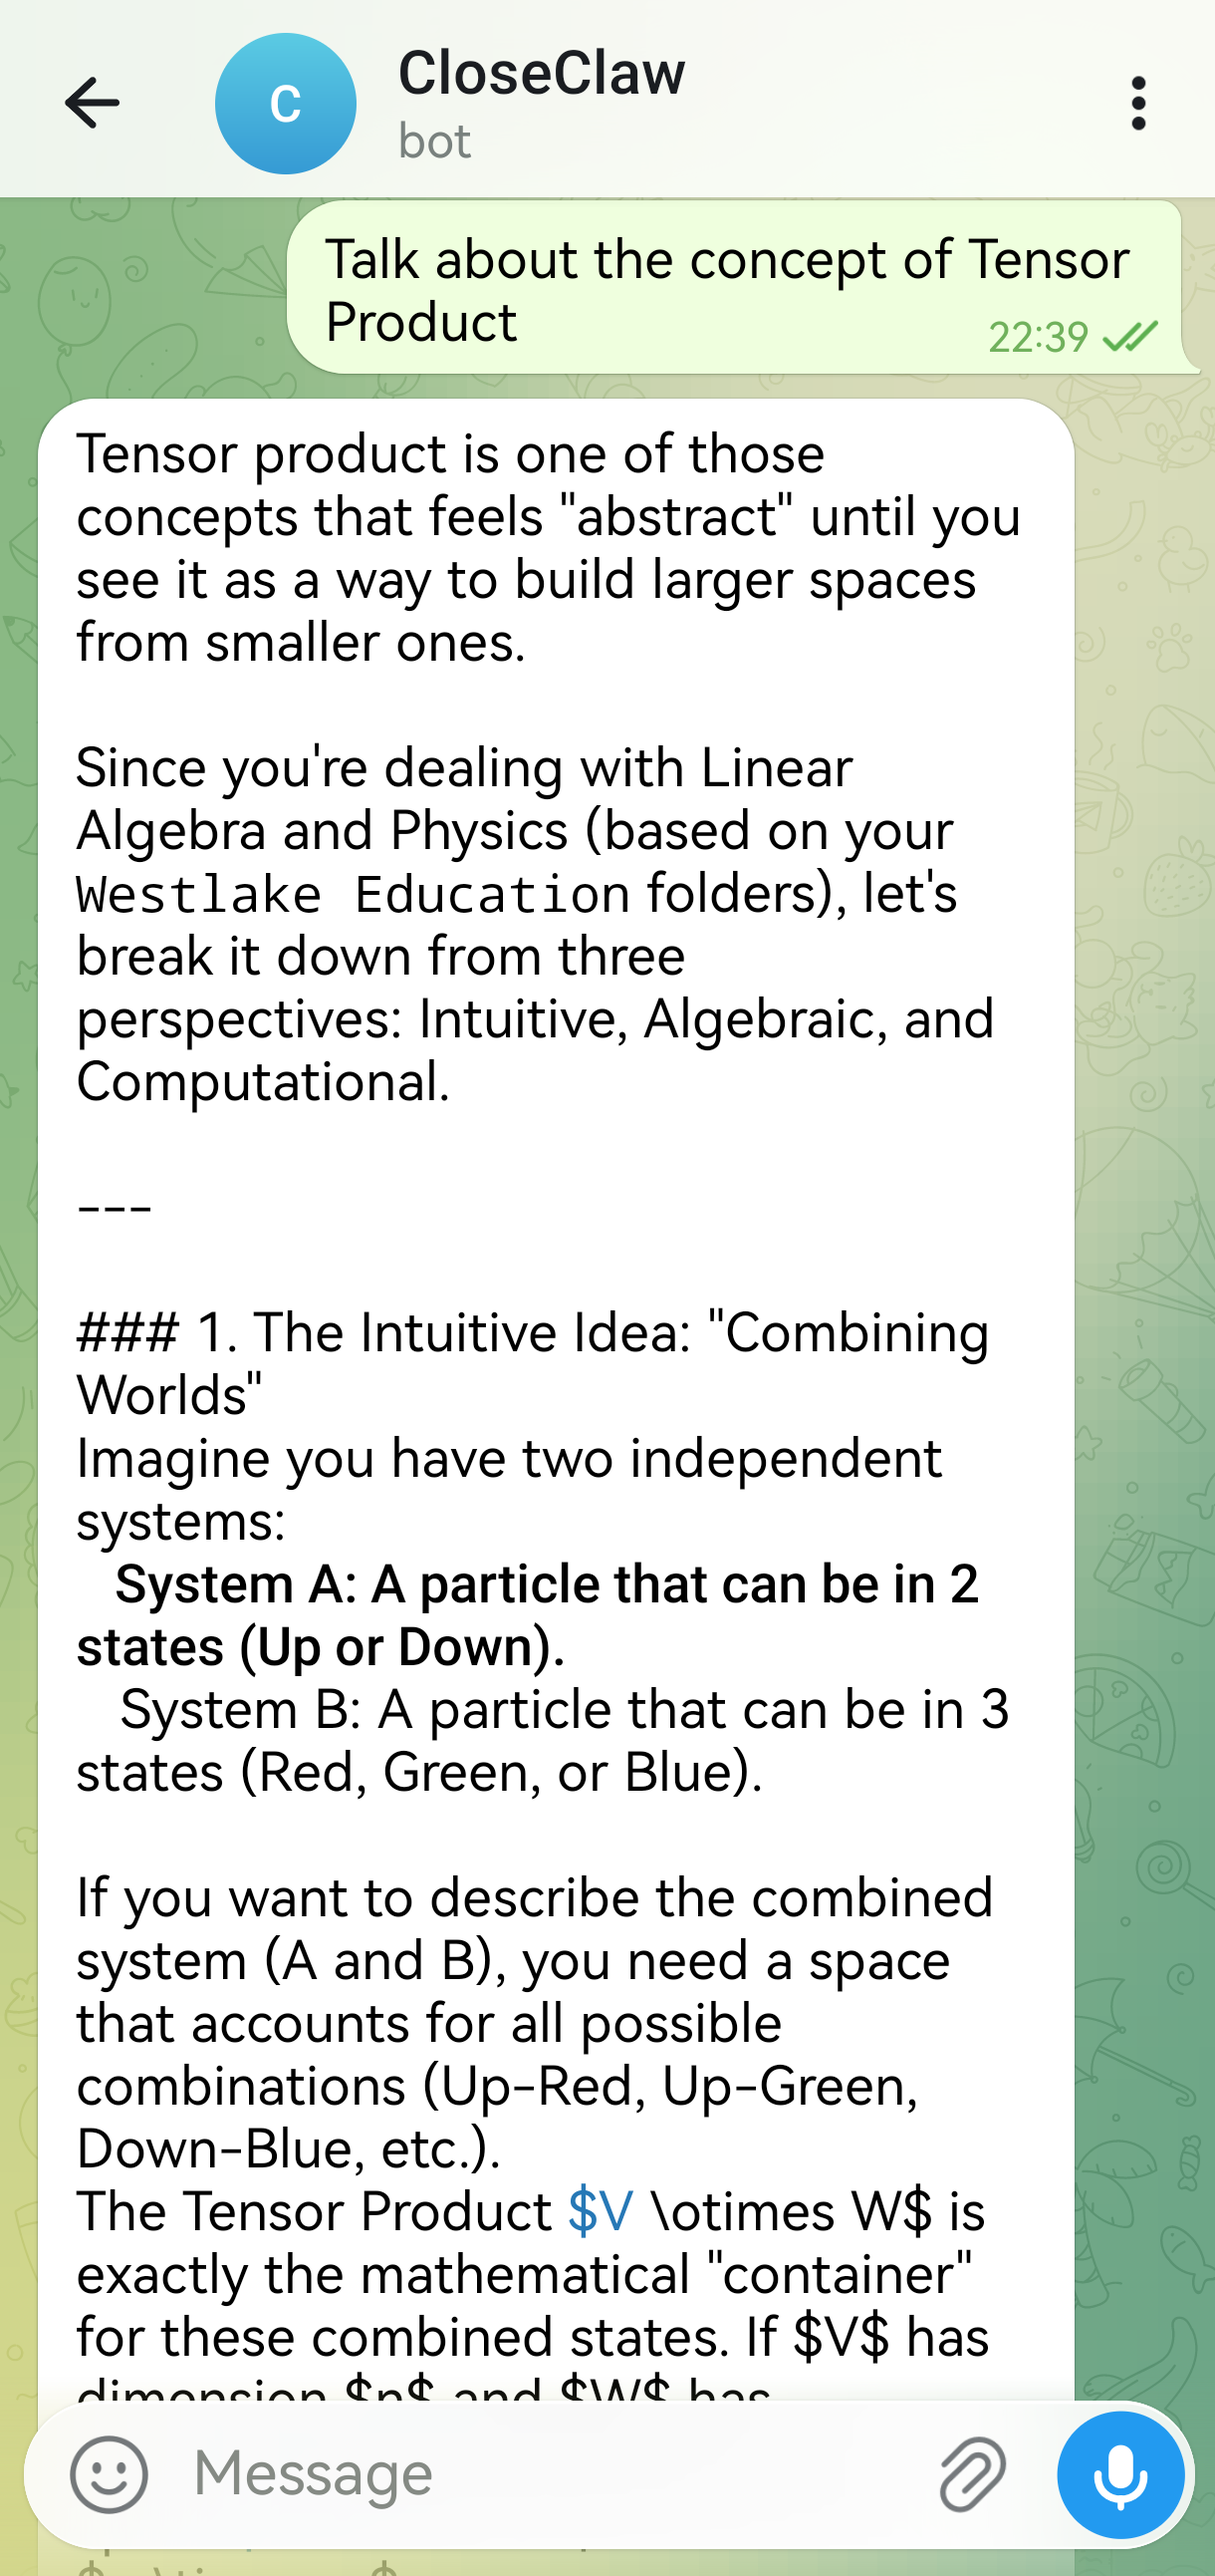
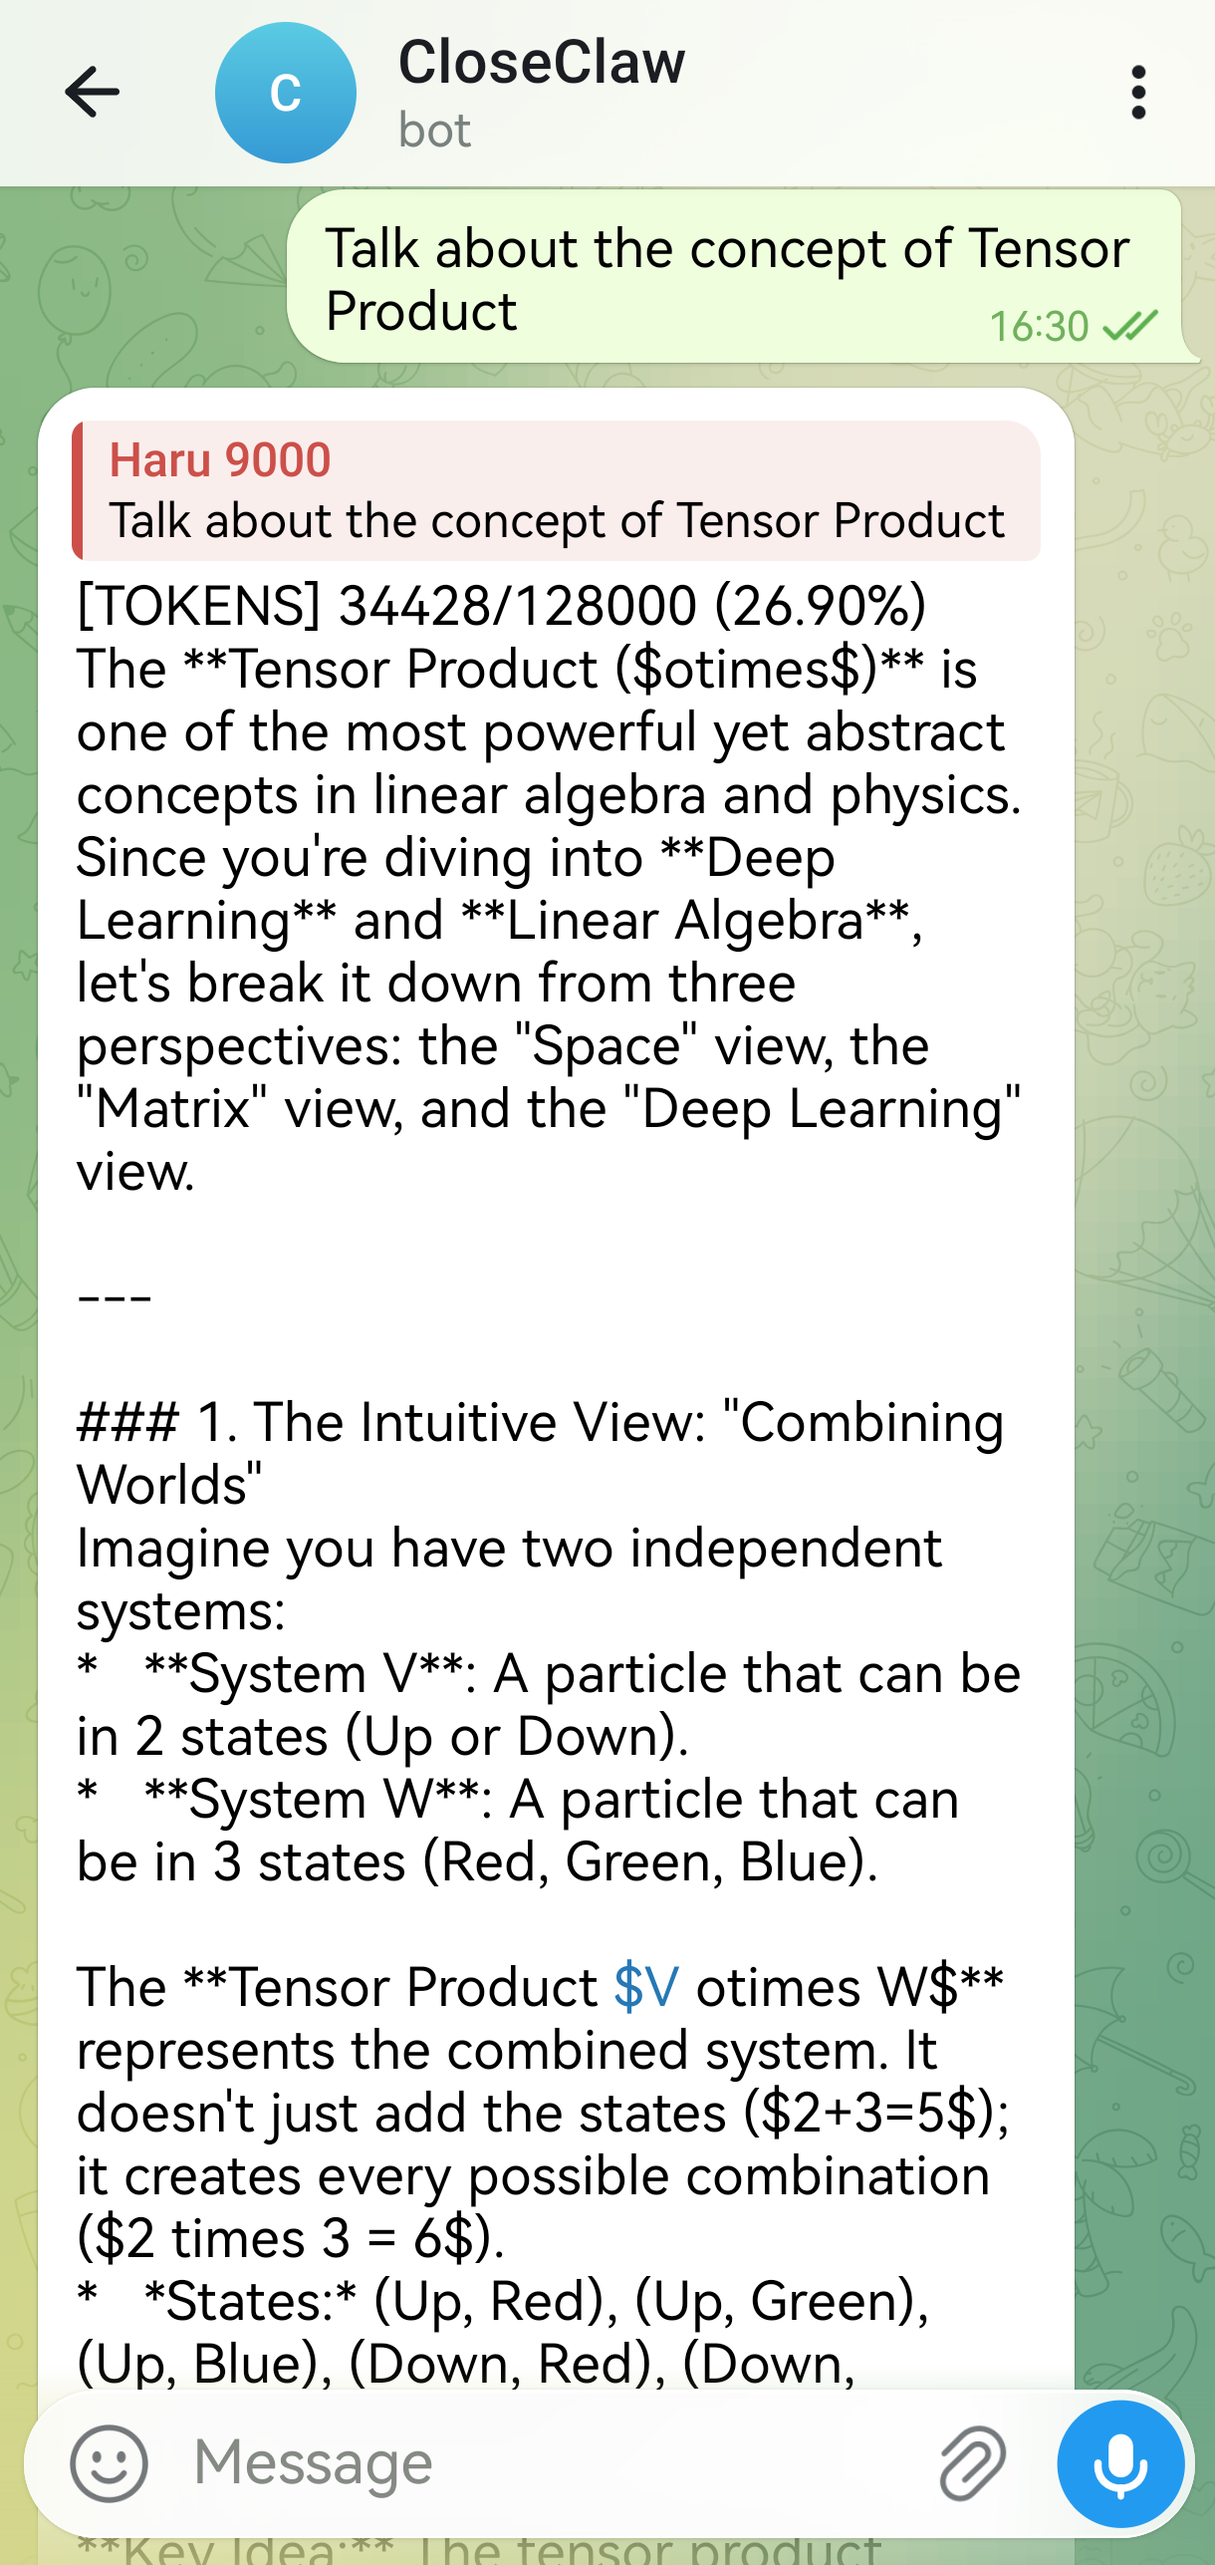
feat: optimize the interaction in channels

diff --git a/closeclaw/runner.py b/closeclaw/runner.py
@@ -397,6 +397,7 @@ async def run_channel(agent: AgentCore,
         # This is needed because AgentCore is channel-agnostic and doesn't
         # carry platform-specific metadata (like chat_id) through responses.
         last_message_metadata: dict[str, Any] = {}
+        last_user_message_id: str = ""
 
         wake_bridge_task: Optional[asyncio.Task] = None
 
@@ -413,7 +414,7 @@ async def run_channel(agent: AgentCore,
         
         async def input_fn():
             """Wrap channel.receive_message to capture metadata."""
-            nonlocal last_message_metadata
+            nonlocal last_message_metadata, last_user_message_id
             # For channels that do not support inject_message, wake_queue must be
             # awaited concurrently with channel input; otherwise cron events can
             # be starved while receive_message is blocking.
@@ -441,6 +442,16 @@ async def run_channel(agent: AgentCore,
 
                 if incoming_metadata:
                     last_message_metadata.update(incoming_metadata)
+
+            if msg:
+                sender_id = str(getattr(msg, "sender_id", "") or "").strip().lower()
+                role = str((getattr(msg, "metadata", {}) or {}).get("role", "")).strip().lower()
+                source = str((getattr(msg, "metadata", {}) or {}).get("source", "")).strip().lower()
+                is_system_message = sender_id == "system" or role == "system" or source in {"cron", "heartbeat"}
+                if not is_system_message:
+                    msg_id = str(getattr(msg, "id", "") or "").strip()
+                    if msg_id:
+                        last_user_message_id = msg_id
             return msg
         
         async def output_fn(response: dict[str, Any]) -> None:
@@ -459,6 +470,24 @@ async def run_channel(agent: AgentCore,
             enriched_response["_token_usage_prefix"] = (
                 f"[TOKENS] {current_tokens}/{max_window_tokens} ({ratio:.2%})"
             )
+
+            resp_type = str(enriched_response.get("type", "response") or "response")
+            if (
+                resp_type in {"response", "assistant_message"}
+                and "_reply_to_message_id" not in enriched_response
+                and last_user_message_id
+            ):
+                enriched_response["_reply_to_message_id"] = last_user_message_id
+
+            # Defensive cleanup for legacy manual quote format introduced previously.
+            # Keep native platform reply behavior while avoiding duplicated quoted text.
+            if resp_type in {"response", "assistant_message"}:
+                raw_response_text = str(enriched_response.get("response", "") or "")
+                legacy_prefix = 'Regarding your last message: "'
+                if raw_response_text.startswith(legacy_prefix):
+                    separator_index = raw_response_text.find('"\n\n')
+                    if separator_index != -1:
+                        enriched_response["response"] = raw_response_text[separator_index + 3 :].lstrip()
             try:
                 await channel.send_response(enriched_response)
             except Exception as exc:

diff --git a/closeclaw/channels/feishu.py b/closeclaw/channels/feishu.py
@@ -26,6 +26,7 @@ logger = logging.getLogger(__name__)
 FEISHU_BASE_URL = "https://open.feishu.cn/open-apis"
 FEISHU_TOKEN_URL = f"{FEISHU_BASE_URL}/auth/v3/tenant_access_token/internal"
 FEISHU_SEND_MSG_URL = f"{FEISHU_BASE_URL}/im/v1/messages"
+FEISHU_REPLY_MSG_URL_TEMPLATE = f"{FEISHU_BASE_URL}/im/v1/messages/{{message_id}}/reply"
 
 
 class FeishuChannel(BaseChannel):
@@ -150,6 +151,7 @@ class FeishuChannel(BaseChannel):
         if resp_type in {"response", "assistant_message"}:
             text = response.get("response", "OK")
             tool_results = response.get("tool_results", [])
+            reply_to_message_id = str(response.get("_reply_to_message_id", "") or "").strip()
             lines: list[str] = [text]
 
             if tool_results:
@@ -164,7 +166,12 @@ class FeishuChannel(BaseChannel):
             text = "\n".join(lines)
             if token_prefix:
                 text = f"{token_prefix}\n{text}"
-            await self._send_text_message(chat_id, text)
+            if reply_to_message_id:
+                sent = await self._reply_text_message(reply_to_message_id, text)
+                if not sent:
+                    await self._send_text_message(chat_id, text)
+            else:
+                await self._send_text_message(chat_id, text)
         
         elif resp_type == "auth_request":
             await self._send_auth_card(chat_id, response)
@@ -271,6 +278,26 @@ class FeishuChannel(BaseChannel):
             logger.debug(f"Feishu message sent to {chat_id}")
         except Exception as e:
             logger.error(f"Failed to send Feishu message: {e}")
+
+    async def _reply_text_message(self, message_id: str, text: str) -> bool:
+        """Reply to an existing Feishu message by message_id."""
+        token = await self._ensure_token()
+        reply_url = FEISHU_REPLY_MSG_URL_TEMPLATE.format(message_id=message_id)
+        try:
+            resp = await self._client.post(
+                reply_url,
+                headers={"Authorization": f"Bearer {token}"},
+                json={
+                    "msg_type": "text",
+                    "content": json.dumps({"text": text}),
+                },
+            )
+            resp.raise_for_status()
+            logger.debug("Feishu reply sent to message_id=%s", message_id)
+            return True
+        except Exception as e:
+            logger.warning("Failed to send Feishu reply (message_id=%s): %s", message_id, e)
+            return False
     
     async def _send_auth_card(self, chat_id: str, response: dict[str, Any]) -> None:
         """Send Interactive Card for HITL confirmation."""

diff --git a/closeclaw/channels/telegram.py b/closeclaw/channels/telegram.py
@@ -160,6 +160,13 @@ class TelegramChannel(BaseChannel):
         resp_type = response.get("type", "response")
         chat_id = response.get("_chat_id")
         token_prefix = str(response.get("_token_usage_prefix", "") or "").strip()
+        raw_reply_to_message_id = response.get("_reply_to_message_id")
+        reply_to_message_id: Optional[int] = None
+        if raw_reply_to_message_id is not None:
+            try:
+                reply_to_message_id = int(raw_reply_to_message_id)
+            except (TypeError, ValueError):
+                reply_to_message_id = None
         
         if not chat_id or not self._app:
             logger.warning("Cannot send response: no chat_id or app not initialized")
@@ -223,6 +230,8 @@ class TelegramChannel(BaseChannel):
                 chunk_kwargs = dict(kwargs)
                 if idx > 0 and "reply_markup" in chunk_kwargs:
                     chunk_kwargs.pop("reply_markup")
+                if idx > 0 and "reply_to_message_id" in chunk_kwargs:
+                    chunk_kwargs.pop("reply_to_message_id")
 
                 try:
                     await bot.send_message(chat_id=chat_id, text=chunk, parse_mode="Markdown", **chunk_kwargs)
@@ -298,7 +307,10 @@ class TelegramChannel(BaseChannel):
             full_text = "\n".join(parts) if parts else "OK"
             if token_prefix:
                 full_text = f"{token_prefix}\n{full_text}"
-            await safe_send(full_text)
+            send_kwargs: dict[str, Any] = {}
+            if reply_to_message_id is not None:
+                send_kwargs["reply_to_message_id"] = reply_to_message_id
+            await safe_send(full_text, **send_kwargs)
             
         elif resp_type == "auth_request":
             await self._send_auth_request_message(chat_id, response)

diff --git a/closeclaw/channels/discord.py b/closeclaw/channels/discord.py
@@ -129,6 +129,13 @@ class DiscordChannel(BaseChannel):
 
         resp_type = response.get("type", "response")
         token_prefix = str(response.get("_token_usage_prefix", "") or "").strip()
+        raw_reply_to_message_id = response.get("_reply_to_message_id")
+        reply_to_message_id: Optional[int] = None
+        if raw_reply_to_message_id is not None:
+            try:
+                reply_to_message_id = int(raw_reply_to_message_id)
+            except (TypeError, ValueError):
+                reply_to_message_id = None
         text = ""
 
         if resp_type in {"response", "assistant_message"}:
@@ -171,6 +178,14 @@ class DiscordChannel(BaseChannel):
             text = f"{token_prefix}\n{text}"
         if len(text) > 1900:
             text = text[:1900] + "..."
+
+        if resp_type in {"response", "assistant_message"} and reply_to_message_id is not None:
+            try:
+                partial = channel.get_partial_message(reply_to_message_id)
+                await channel.send(text, reference=partial, mention_author=False)
+                return
+            except Exception as exc:
+                logger.debug("Discord reply reference failed, fallback to normal send: %s", exc)
 
         await channel.send(text)
 

diff --git a/closeclaw/channels/whatsapp.py b/closeclaw/channels/whatsapp.py
@@ -123,12 +123,18 @@ class WhatsAppChannel(BaseChannel):
 
         if resp_type in {"response", "assistant_message"} and token_prefix:
             text = f"{token_prefix}\n{text}"
+        reply_to_message_id = str(response.get("_reply_to_message_id", "") or "").strip()
+        payload: dict[str, Any] = {
+            "type": "send",
+            "to": str(chat_id),
+            "text": text[:3500],
+        }
+        if reply_to_message_id and resp_type in {"response", "assistant_message"}:
+            # Bridge-compatible reply hints; unknown fields are expected to be ignored safely.
+            payload["reply_to_message_id"] = reply_to_message_id
+            payload["quoted_message_id"] = reply_to_message_id
         await self._bridge_send(
-            {
-                "type": "send",
-                "to": str(chat_id),
-                "text": text[:3500],
-            }
+            payload
         )
 
     async def send_auth_request(

diff --git a/closeclaw/channels/cli_channel.py b/closeclaw/channels/cli_channel.py
@@ -3,8 +3,6 @@
 Shares the same AgentCore instance with other channels.
 Provides stdin/stdout based message exchange and HITL confirmation.
 
-From Planning.md:
-  "鏈湴 CLI 瀹炵幇锛氬祵鍏ュ紡 CLI 椹卞姩锛屼笌 Server 鍏变韩鍚屼竴涓?AgentCore 瀹炰緥锛?   閫氳繃 asyncio.gather 鍚屾椂鍚姩 Server 鍜?CLI 寰幆銆?
 """
 
 import asyncio
@@ -198,7 +196,7 @@ class CLIChannel(BaseChannel):
             # Show main response
             if token_prefix:
                 print(f"{Colors.DIM}{token_prefix}{Colors.RESET}")
-            print(f"{Colors.GREEN}Agent > {Colors.RESET}{text}\n")
+            print(f"{Colors.GREEN}CloseClaw > {Colors.RESET}{text}\n")
             self._input_gate.set()
         
         elif resp_type == "auth_request":

diff --git a/closeclaw/channels/qq.py b/closeclaw/channels/qq.py
@@ -154,7 +154,12 @@ class QQChannel(BaseChannel):
         if resp_type in {"response", "assistant_message"} and token_prefix:
             text = f"{token_prefix}\n{text}"
         self._msg_seq += 1
-        msg_id = response.get("message_id") or str(self._msg_seq)
+        reply_to_message_id = str(response.get("_reply_to_message_id", "") or "").strip()
+        msg_id = (
+            reply_to_message_id
+            if reply_to_message_id and resp_type in {"response", "assistant_message"}
+            else (response.get("message_id") or str(self._msg_seq))
+        )
         chat_type = self._chat_type_cache.get(chat_id, "c2c")
 
         try:

diff --git a/docs/WhatsApp_Bridge_Protocol.md b/docs/WhatsApp_Bridge_Protocol.md
@@ -1,0 +1,84 @@
+# WhatsApp Bridge Protocol
+
+This document defines the WebSocket payload contract between CloseClaw and a WhatsApp bridge.
+
+## Transport
+
+- Protocol: WebSocket
+- Direction:
+  - Bridge -> CloseClaw: inbound events (`message`, `auth_response`, ...)
+  - CloseClaw -> Bridge: outbound send requests (`send`)
+
+## Outbound Payload (CloseClaw -> Bridge)
+
+CloseClaw sends:
+
+```json
+{
+  "type": "send",
+  "to": "chat_or_user_id",
+  "text": "message text",
+  "reply_to_message_id": "optional_source_message_id",
+  "quoted_message_id": "optional_source_message_id"
+}
+```
+
+Field rules:
+
+- `type`: always `send`
+- `to`: destination chat/user id
+- `text`: plain text content
+- `reply_to_message_id`: optional reply target id
+- `quoted_message_id`: optional reply target id (alias for bridge compatibility)
+
+Reply semantics:
+
+- When both `reply_to_message_id` and `quoted_message_id` are present, they refer to the same source message id.
+- Bridge should treat either field as a reply hint and perform native quoted/reply send if supported by its SDK.
+- If bridge does not support reply/quote in current adapter, it should ignore these fields and send a normal message.
+
+## Inbound Payload (Bridge -> CloseClaw)
+
+### 1) User Message Event
+
+```json
+{
+  "type": "message",
+  "id": "wamid_or_bridge_message_id",
+  "chat_id": "chat_or_group_id",
+  "sender": "user_id_or_jid",
+  "content": "user text",
+  "isGroup": false
+}
+```
+
+Required for best routing:
+
+- `id`: source message id (used by CloseClaw for future reply chaining)
+- `chat_id`: target chat id for sending responses back
+- `sender`: sender id
+- `content`: message text
+
+### 2) Auth Response Event
+
+```json
+{
+  "type": "auth_response",
+  "auth_request_id": "req_xxx",
+  "approved": true,
+  "user_id": "admin_user_id"
+}
+```
+
+## Compatibility Notes
+
+- CloseClaw keeps backward compatibility: unknown inbound fields are ignored.
+- Bridge should also ignore unknown outbound fields to allow protocol evolution.
+- Reply fields are optional, but strongly recommended to implement for better conversation UX.
+
+## Minimal Bridge Implementation Checklist
+
+1. Parse outbound `send` payload.
+2. If `reply_to_message_id` or `quoted_message_id` exists, call WhatsApp SDK quoted/reply API path.
+3. Emit inbound `message` event with stable `id`.
+4. Preserve `chat_id` and `sender` mapping for routing and auth checks.

diff --git a/README_zh.md b/README_zh.md
@@ -105,6 +105,9 @@ Tool Call
 | `Whatsapp`| 🟢 通过 bridge 触达受限网络环境下的移动端 | 打印 bridge URL |
 | `QQ` | 🐧 面向中文生态的即时通信入口 | 显示 gateway 已启动 |
 
+WhatsApp bridge 协议说明：
+- [docs/WhatsApp_Bridge_Protocol.md](docs/WhatsApp_Bridge_Protocol.md)
+
 ---
 
 ## 🤖 LLM Provider 支持

diff --git a/README.md b/README.md
@@ -103,6 +103,9 @@ Tool Call
 | `WhatsApp` | 🟢 Reachable on networks via bridge | Prints bridge URL |
 | `QQ` | 🐧 Classic Chinese social ecosystem | Gateway started |
 
+WhatsApp bridge protocol details:
+- [docs/WhatsApp_Bridge_Protocol.md](docs/WhatsApp_Bridge_Protocol.md)
+
 ---
 
 # 🤖 LLM Providers
